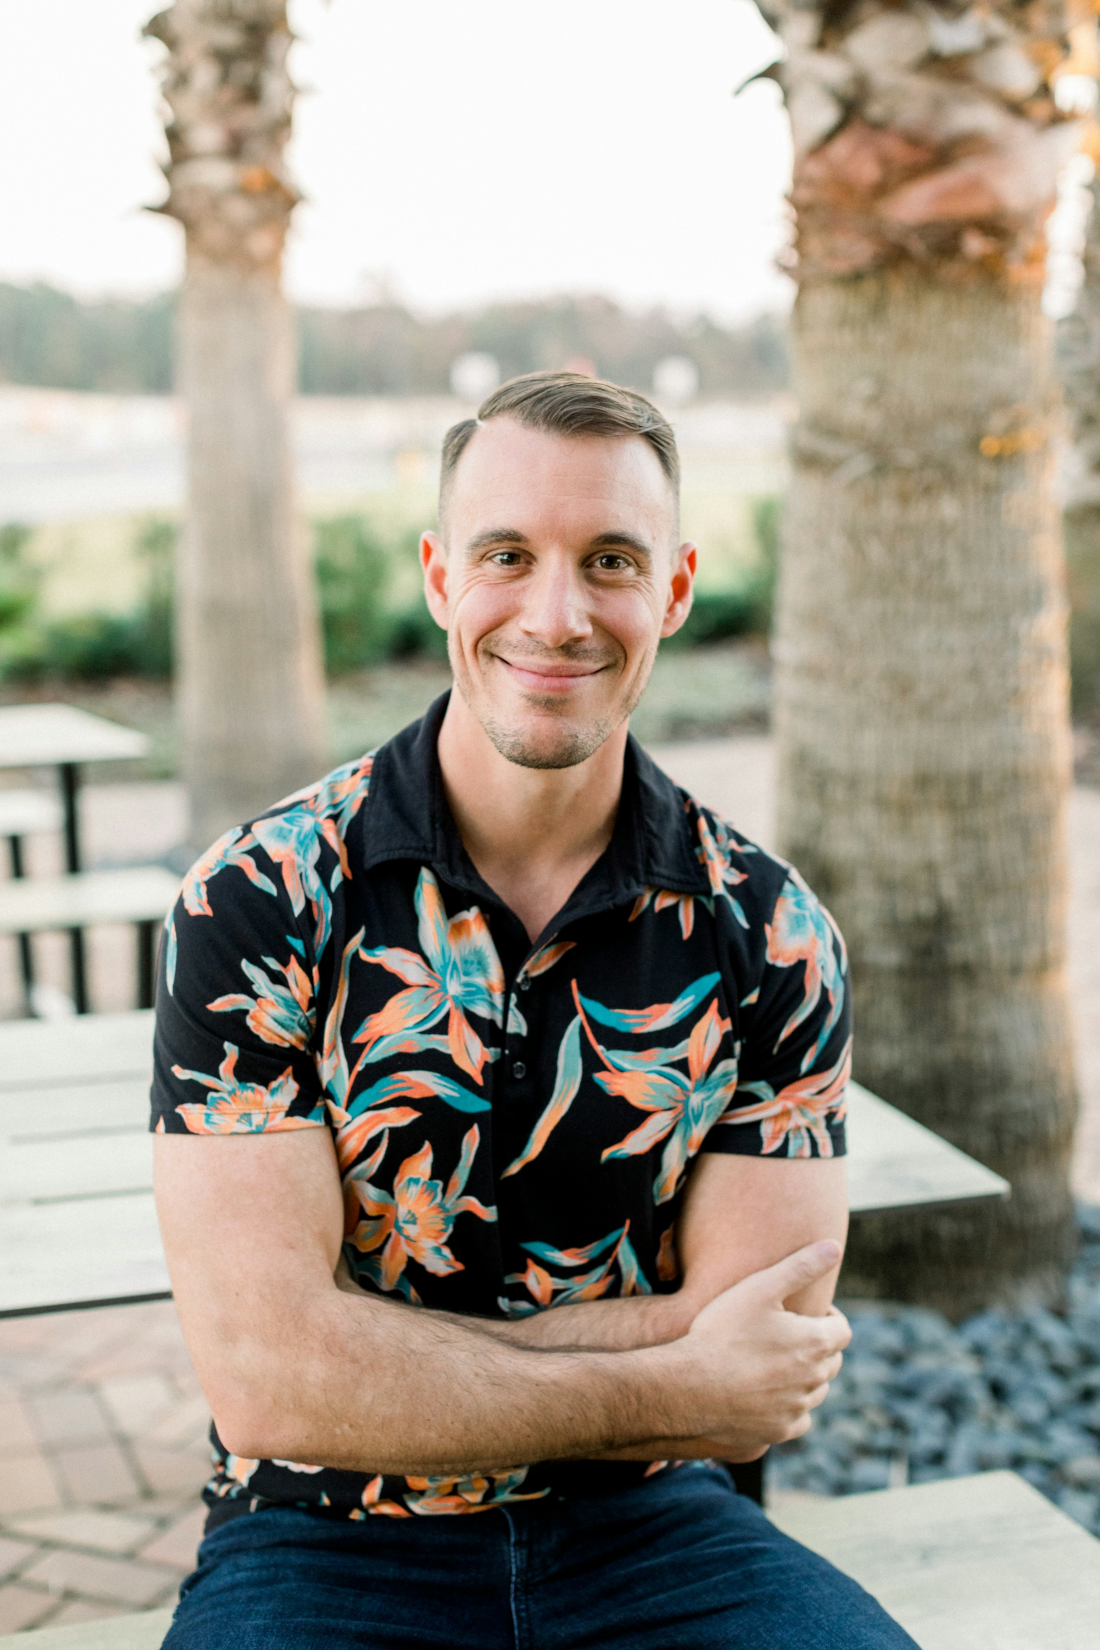
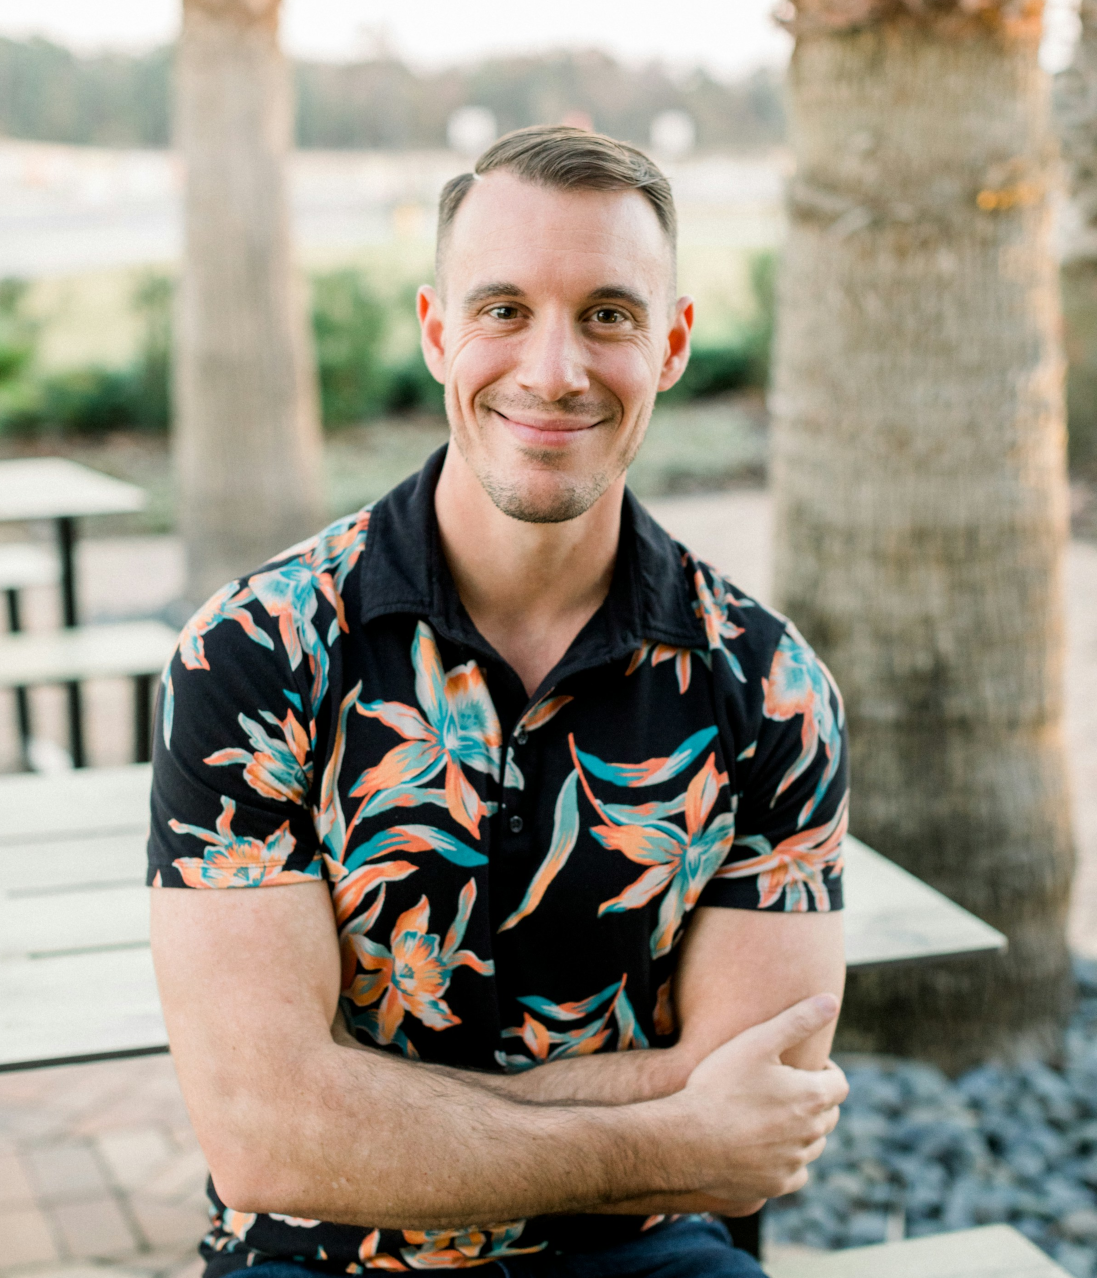
feat: Markdown Section now is optional, uptade image hero (hero-img.png)

diff --git a/index.html b/index.html
@@ -287,7 +287,7 @@
                   <li class="skill-list">Next.js</li>
                   <li class="skill-list">Tailwind CSS</li>
                   <li class="skill-list">TypeScript</li>
-                  
+
                 </ul>
               </div>
             </div>
@@ -345,7 +345,7 @@
       </div>
     </section>
 
-    <!-- Markdown Section (Status) -->
+    <!-- Markdown Section (Status, optional)
     <section id="markdown-viewer" class="markdown">
       <div class="container">
         <div class="section-header">
@@ -354,7 +354,7 @@
         </div>
         <div id="markdown-content" class="markdown-content"></div>
       </div>
-    </section>
+    </section> -->
 
     <!-- About Me Section -->
     <section id="about" class="about">
